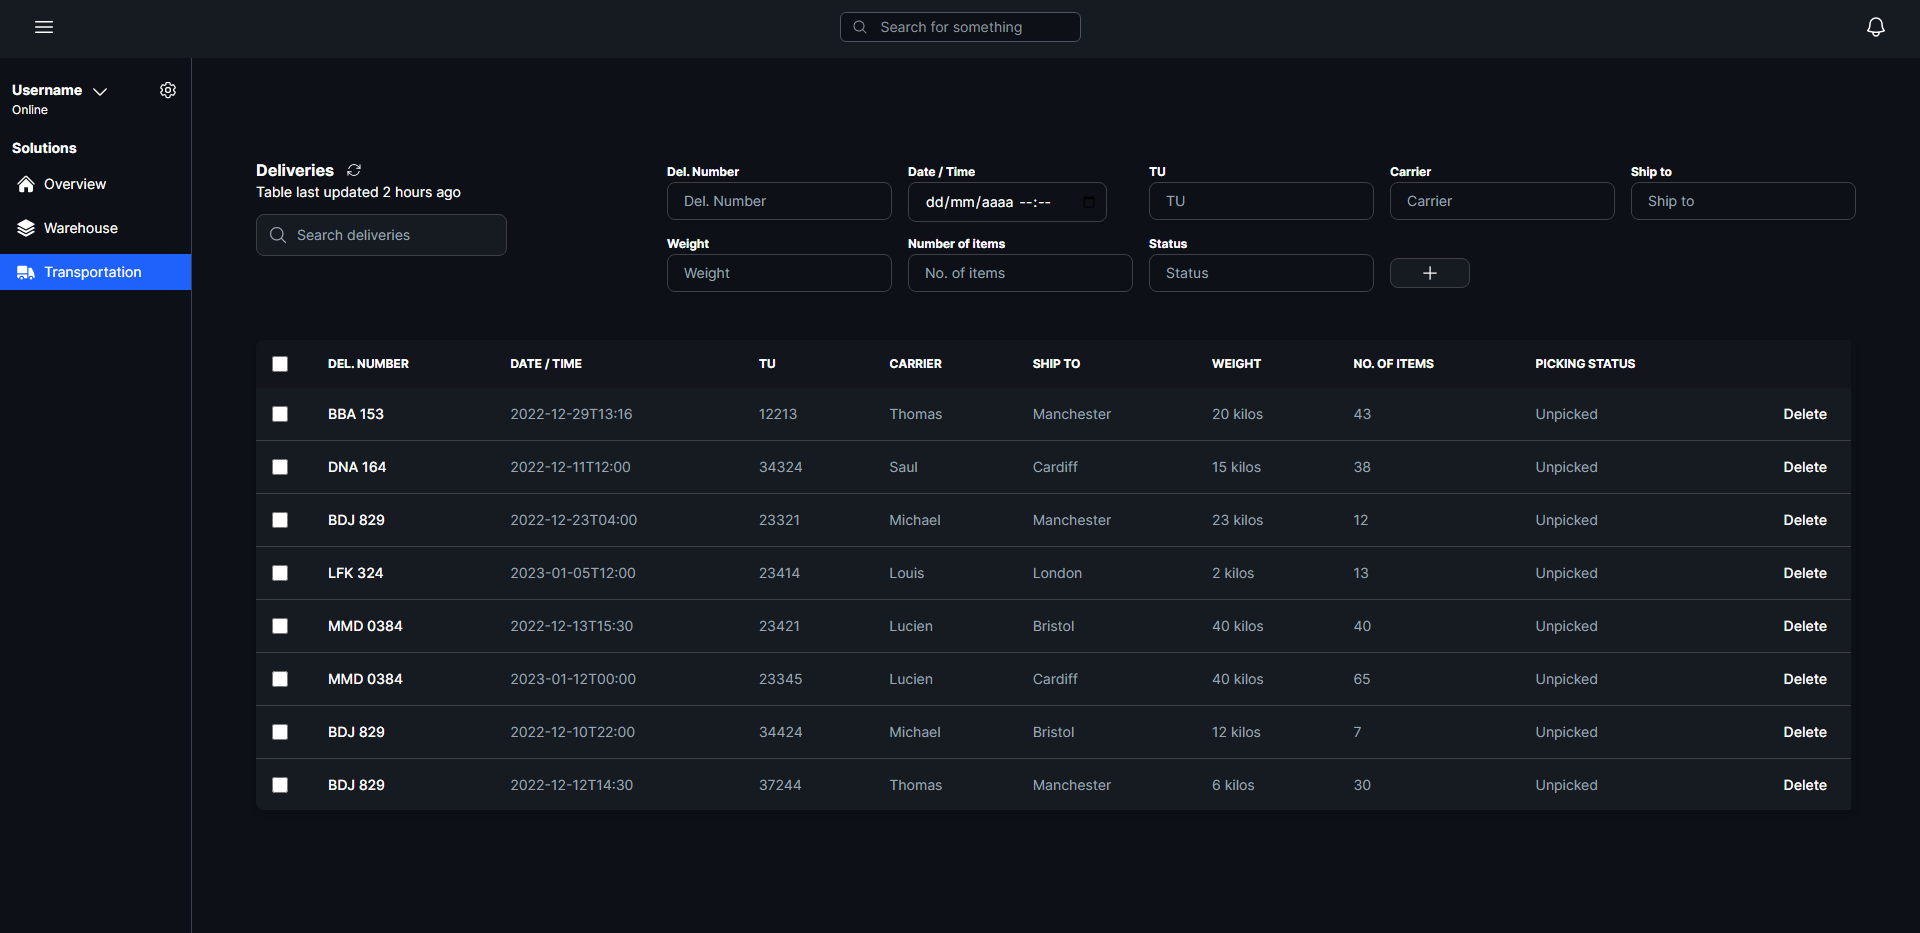
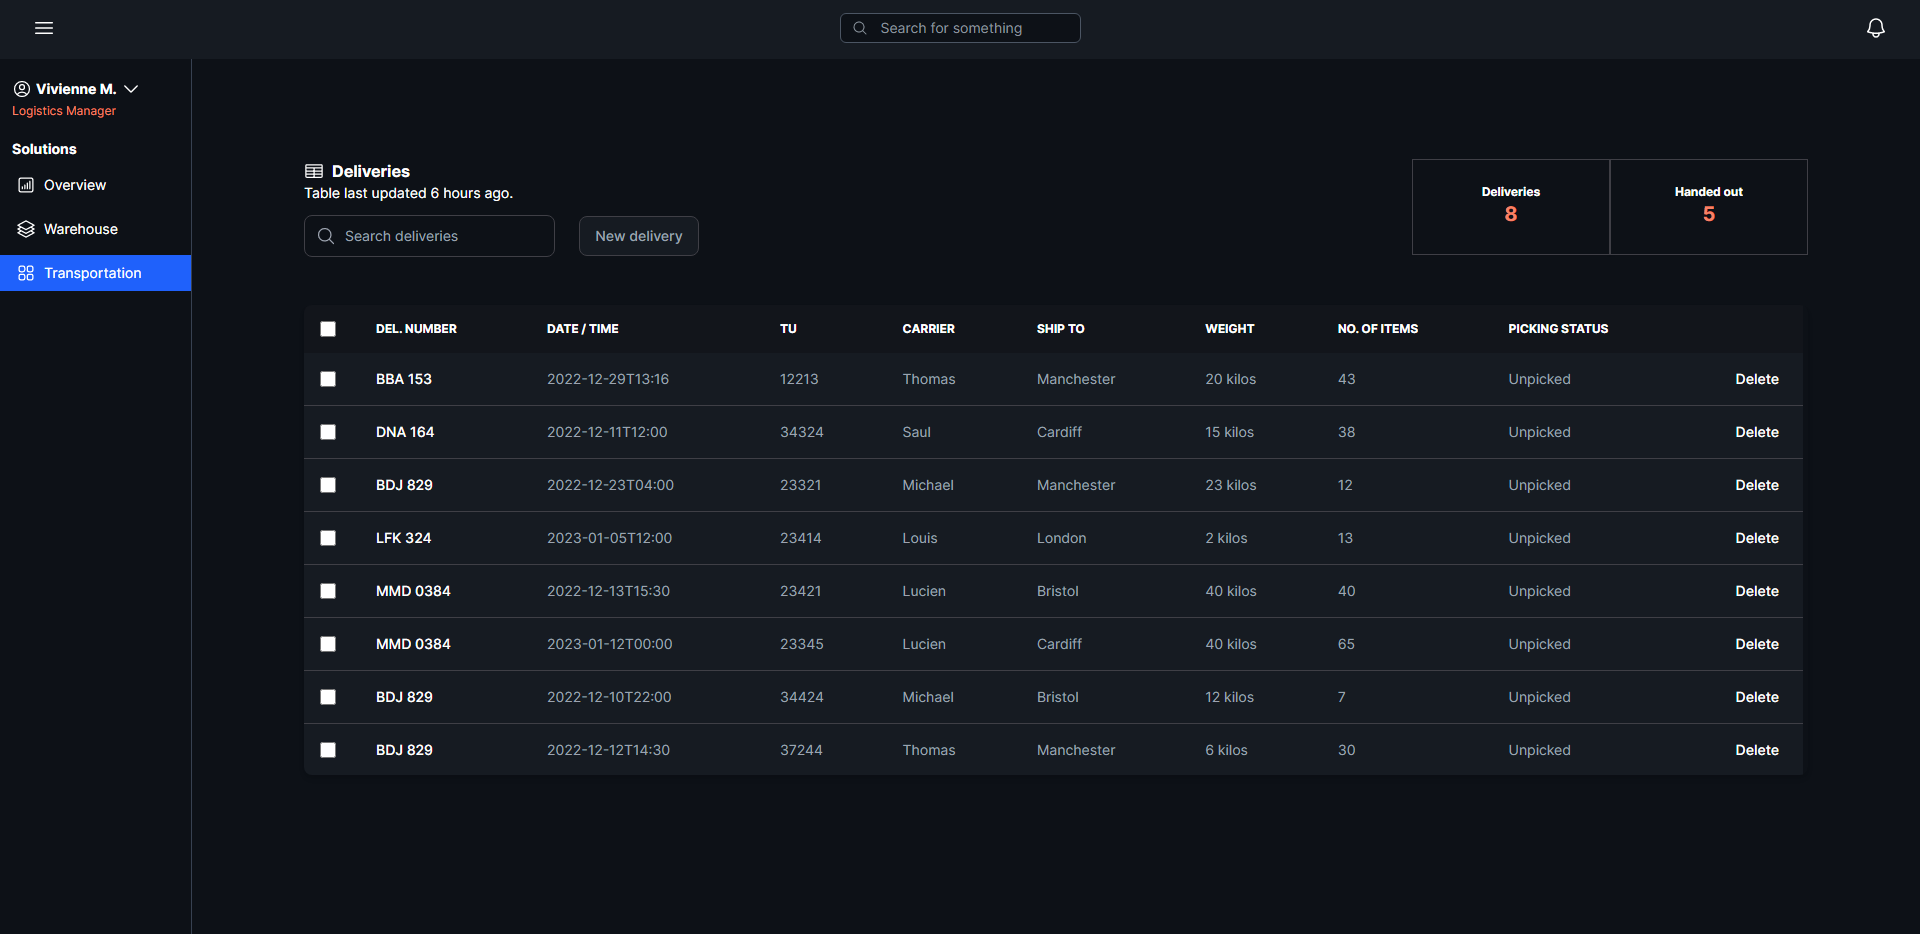
Updating radix dialog

diff --git a/client/pages/components/Nav.tsx b/client/pages/components/Nav.tsx
@@ -6,9 +6,15 @@ import {
   MagnifyingGlassIcon,
   HomeIcon,
   TruckIcon,
-  Square3Stack3DIcon,
 } from "@heroicons/react/24/solid";
-import { ChevronDownIcon, BellIcon } from "@heroicons/react/24/outline";
+import {
+  ChevronDownIcon,
+  BellIcon,
+  ChartBarSquareIcon,
+  Square3Stack3DIcon,
+  Squares2X2Icon,
+  UserCircleIcon,
+} from "@heroicons/react/24/outline";
 
 export function Nav() {
   const router = useRouter();
@@ -33,11 +39,12 @@ export function Nav() {
 
       <aside className="fixed mt-[62px] h-full w-48 border-r border-r-gray-700 bg-[#0d1117]">
         <div className=" px-3 py-5 text-white">
-          <div className="flex items-center align-middle ">
+          <div className="flex items-center gap-1 align-middle">
+            <UserCircleIcon className="h-5 w-5 text-white hover:text-[#c7c7c7]" />
             <p className="text-sm font-bold">Vivienne M.</p>
-            <ChevronDownIcon className="mt-1 ml-14 h-5 w-5 cursor-pointer text-white hover:text-[#c7c7c7]" />
+            <ChevronDownIcon className="h-5 w-5 cursor-pointer text-white hover:text-[#c7c7c7]" />
           </div>
-          <p className="text-xs text-[#f78166]">Logistics Manager</p>
+          <p className="pt-1 text-xs text-[#f78166]">Logistics Manager</p>
         </div>
         <div className="h-full">
           <h1 className="ml-3 text-sm font-bold text-white">Solutions</h1>
@@ -52,7 +59,7 @@ export function Nav() {
                       : "mt-2 flex items-center p-2 text-base font-normal text-white hover:bg-[#1f61fb]"
                   }
                 >
-                  <HomeIcon className="ml-2 h-5 w-5 text-white" />
+                  <ChartBarSquareIcon className="ml-2 h-5 w-5 text-white" />
                   <span className="ml-2 mr-2 text-sm">Overview</span>
                 </Link>
               </div>
@@ -79,7 +86,7 @@ export function Nav() {
                       : "mt-2 flex items-center p-2 text-base font-normal text-white hover:bg-[#1f61fb]"
                   }
                 >
-                  <TruckIcon className="ml-2 h-5 w-5 text-white" />
+                  <Squares2X2Icon className="ml-2 h-5 w-5 text-white" />
                   <span className="ml-2 text-sm">Transportation</span>
                 </Link>
               </div>

diff --git a/client/pages/transportation.tsx b/client/pages/transportation.tsx
@@ -11,6 +11,7 @@ import {
   ArrowPathIcon,
   MagnifyingGlassIcon,
   PlusIcon,
+  TableCellsIcon,
 } from "@heroicons/react/24/outline";
 import axios from "axios";
 import { PlusSmallIcon } from "@heroicons/react/24/solid";
@@ -294,13 +295,13 @@ export default function Transportation(props: CountProps) {
         <div className="max-w-screen max-h-screen py-20 px-28">
           <div className="flex justify-between pb-12">
             <div className="flex flex-col">
-              <div className="flex flex-row items-center gap-3 text-center align-middle">
+              <div className="flex flex-row items-center gap-2 text-center align-middle">
+                <TableCellsIcon className="h-5 w-5 cursor-pointer text-white" />
                 <h1 className="font-bold text-white ">Deliveries</h1>
-                <ArrowPathIcon className="h-4 w-4 cursor-pointer text-white" />
               </div>
 
               <p className="pb-3 text-sm text-white">
-                Table last updated 2 hours ago
+                Table last updated 6 hours ago.
               </p>
 
               <div className="flex gap-6">
@@ -327,7 +328,7 @@ export default function Transportation(props: CountProps) {
             </div>
             <div className="grid h-24 grid-cols-2 bg-[#0d1117] text-center text-white">
               <section className="max-w-[200px] border-[1px] border-zinc-700 px-16 py-6 text-xs font-bold shadow-sm">
-                <p>Products</p>
+                <p>Deliveries</p>
                 <p className="text-xl font-bold text-[#f78166]">
                   {props.deliveriesCount}
                 </p>
@@ -341,7 +342,7 @@ export default function Transportation(props: CountProps) {
 
           <div className="h-[470px] overflow-y-scroll shadow-md sm:rounded-lg">
             <table className="w-full text-left text-sm text-gray-400  ">
-              <thead className="border border-zinc-700 bg-[#12151b] text-xs font-bold uppercase text-white ">
+              <thead className="bg-[#12151b] text-xs font-bold uppercase text-white ">
                 <tr>
                   <th scope="col" className="p-4">
                     <div className="flex items-center">

diff --git a/client/pages/warehouse.tsx b/client/pages/warehouse.tsx
@@ -13,6 +13,7 @@ import { Input } from "./components/Input";
 import {
   ArrowPathIcon,
   MagnifyingGlassIcon,
+  TableCellsIcon,
 } from "@heroicons/react/24/outline";
 import { PlusSmallIcon } from "@heroicons/react/24/solid";
 
@@ -259,9 +260,9 @@ export default function Warehouse(props: CountProps) {
         <div className="max-w-screen max-h-screen py-20 px-28">
           <div className="flex justify-between pb-12">
             <div className="flex flex-col">
-              <div className="flex flex-row items-center gap-3 text-center align-middle">
+              <div className="flex flex-row items-center gap-2 text-center align-middle">
+                <TableCellsIcon className="h-5 w-5 cursor-pointer text-white" />
                 <h1 className="font-bold text-white ">Hangar 01</h1>
-                <ArrowPathIcon className="h-4 w-4 cursor-pointer text-white" />
               </div>
 
               <p className="pb-3 text-sm text-white">
@@ -305,9 +306,9 @@ export default function Warehouse(props: CountProps) {
             </div>
           </div>
 
-          <div className=" h-[470px] overflow-y-scroll shadow-lg transition-all sm:rounded-lg">
+          <div className=" h-[475px] overflow-y-scroll shadow-lg transition-all sm:rounded-lg">
             <table className="w-full text-left text-sm text-gray-500 dark:text-gray-400">
-              <thead className="border border-zinc-700 bg-[#12151b] text-xs font-bold uppercase text-white">
+              <thead className="bg-[#12151b] text-xs font-bold uppercase text-white">
                 <tr>
                   <th scope="col" className="py-3 px-6">
                     Product name

diff --git a/README.md b/README.md
@@ -5,3 +5,4 @@ Logistics Management
 <p align="center">Logistics application performing CRUD operations.</p>
 <img alt="" src="./client/public/Home.PNG" />
 <img alt="" src="./client/public/Transportation.PNG" />
+<img alt="" src="./client/public/TransportationModal.PNG" />
